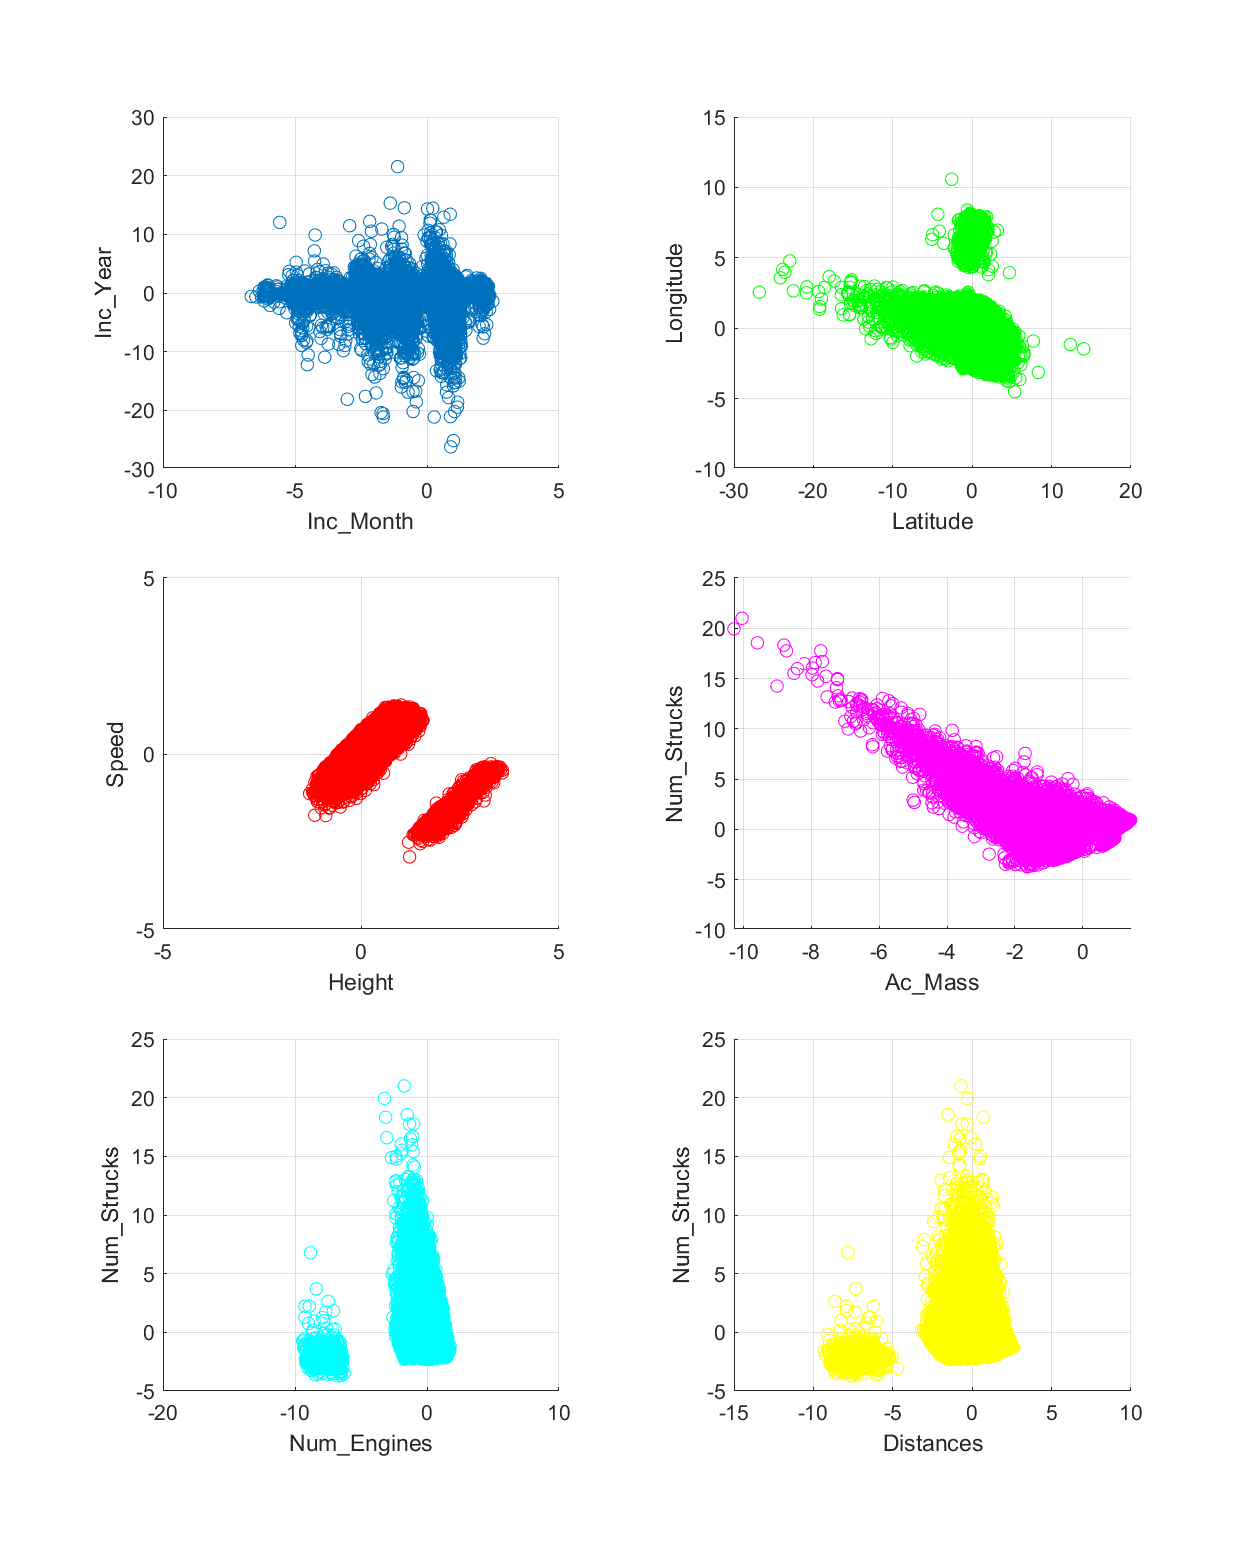
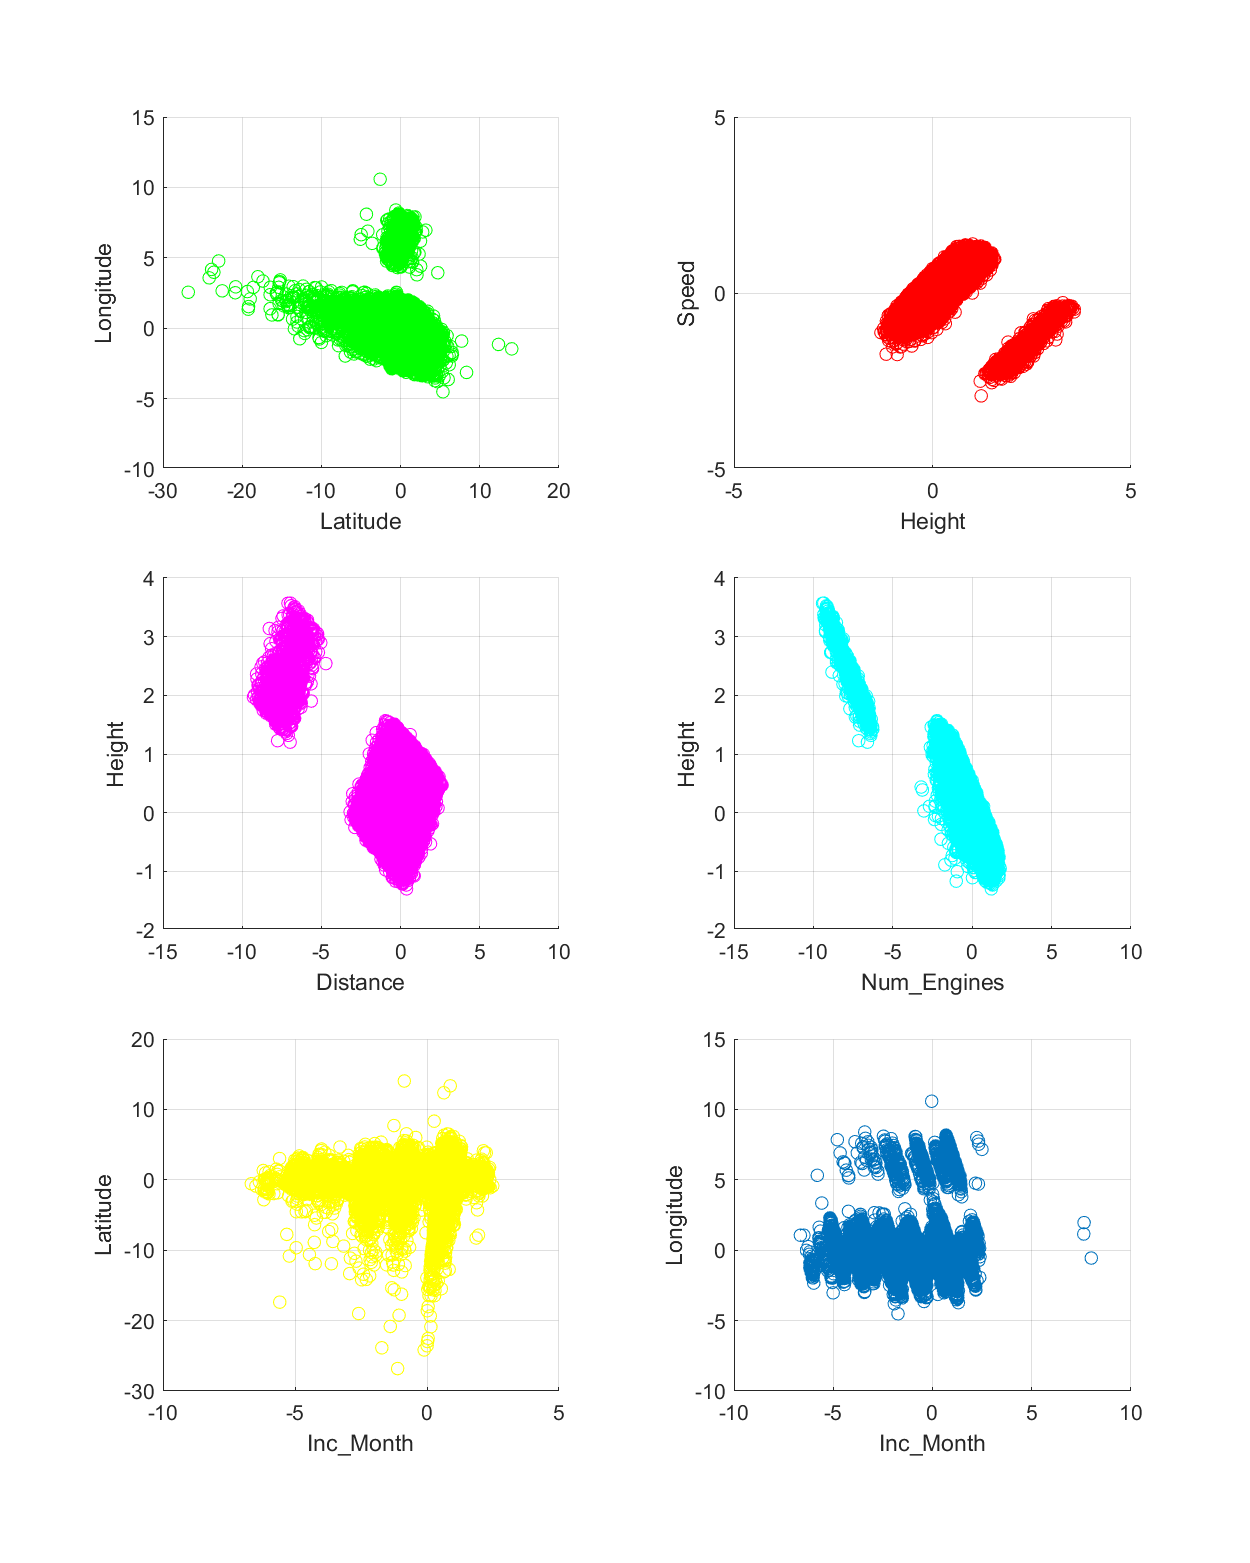
Added plots of strikes-variables and some variable's plots

diff --git a/PCA/PCA.m b/PCA/PCA.m
@@ -128,11 +128,55 @@ set(gcf,'position',[10,10,800,1000]);
 tiledlayout(3,2);
 
 nexttile;
-scatter(P(:,1),P(:,2));
-xlim([-10 5]);
-xlabel("Inc\_Month");
-ylabel("Inc\_Year");
+scatter(P(:,9),P(:,2));
+xlim([-10 25]);
+xlabel("Num\_Strucks");
+ylabel("Inc\_Month");
 grid;
+
+nexttile;
+scatter(P(:,9),P(:,4),MarkerEdgeColor='green');
+ylim([-10 15]);
+xlabel("Num\_Strucks");
+ylabel("Longitude");
+grid;
+
+nexttile;
+scatter(P(:,9),P(:,3),MarkerEdgeColor='red');
+xlim([-10 20]);
+xlabel("Num\_Strucks");
+ylabel("Latitude");
+grid;
+
+nexttile;
+scatter(P(:,9),P(:,10),MarkerEdgeColor='magenta');
+xlim([-10 25]);
+xlabel("Num\_Strucks");
+ylabel("Ac\_Mass");
+grid;
+
+nexttile;
+scatter(P(:,9),P(:,5),MarkerEdgeColor='cyan');
+ylim([-15 10]);
+xlabel("Num\_Strucks");
+ylabel("Num\_Engines");
+grid;
+
+nexttile;
+scatter(P(:,9),P(:,6),MarkerEdgeColor='yellow');
+ylim([-5 5]);
+xlabel("Num\_Strucks");
+ylabel("Height");
+grid;
+
+% For export the graph to a png file, uncomment the next line   
+print('2D_strikes-variables','-dpng');
+
+
+
+figure;
+set(gcf,'position',[10,10,800,1000]);
+tiledlayout(3,2);
 
 nexttile;
 scatter(P(:,3),P(:,4),MarkerEdgeColor='green');
@@ -150,24 +194,31 @@ ylabel("Speed");
 grid;
 
 nexttile;
-scatter(P(:,10),P(:,9),MarkerEdgeColor='magenta');
-ylim([-10 25]);
-xlabel("Ac\_Mass");
-ylabel("Num\_Strucks");
-grid;
-
-nexttile;
-scatter(P(:,5),P(:,9),MarkerEdgeColor='cyan');
-xlim([-20 10]);
-xlabel("Num\_Engines");
-ylabel("Num\_Strucks");
-grid;
-
-nexttile;
-scatter(P(:,8),P(:,9),MarkerEdgeColor='yellow');
+scatter(P(:,8),P(:,6),MarkerEdgeColor='magenta');
 xlim([-15 10]);
-xlabel("Distances");
-ylabel("Num\_Strucks");
+xlabel("Distance");
+ylabel("Height");
+grid;
+
+nexttile;
+scatter(P(:,5),P(:,6),MarkerEdgeColor='cyan');
+xlim([-15 10]);
+xlabel("Num\_Engines");
+ylabel("Height");
+grid;
+
+nexttile;
+scatter(P(:,1),P(:,3),MarkerEdgeColor='yellow');
+xlim([-10 5]);
+xlabel("Inc\_Month");
+ylabel("Latitude");
+grid;
+
+nexttile;
+scatter(P(:,1),P(:,4));
+ylim([-10 15]);
+xlabel("Inc\_Month");
+ylabel("Longitude");
 grid;
 
 % For export the graph to a png file, uncomment the next line   
